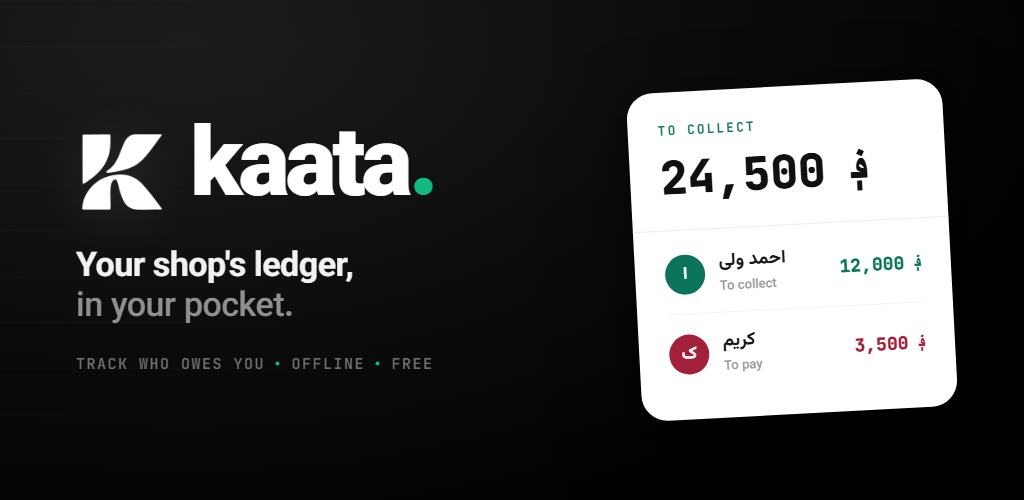
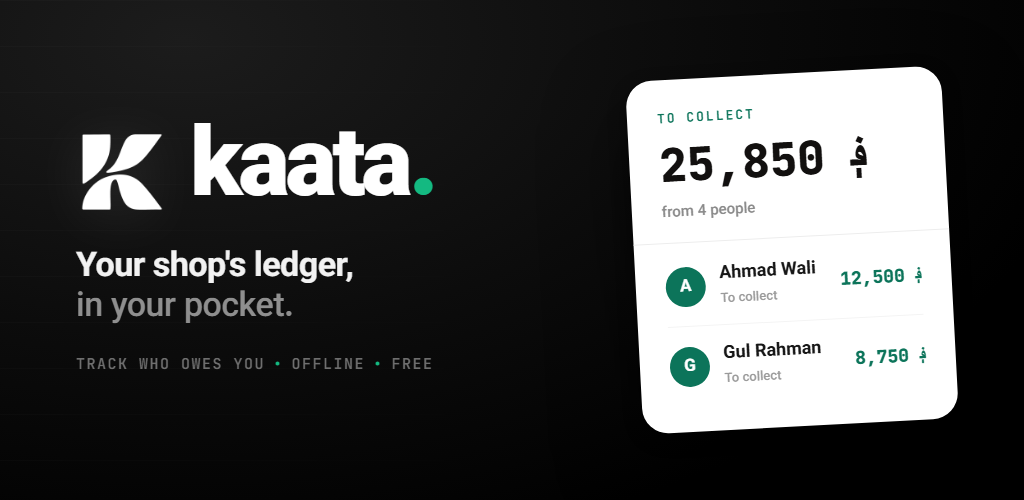
fix(store-assets): correct feature-graphic totals + collect/pay, match profile initials to names

diff --git a/docs/store-assets/feature-graphic.html b/docs/store-assets/feature-graphic.html
@@ -78,7 +78,8 @@
   .card .total { margin-top: 8px; font-family: "Mono", monospace; font-weight: 800;
                  font-size: 46px; color: #12100F; letter-spacing: -1px;
                  direction: ltr; unicode-bidi: isolate; }
-  .card .rule { height: 1px; background: #EDEDED; margin: 22px -30px 4px; }
+  .card .sub { margin-top: 6px; font-weight: 500; font-size: 15px; color: #8a8a8a; }
+  .card .rule { height: 1px; background: #EDEDED; margin: 18px -30px 4px; }
   .row { display: flex; align-items: center; padding: 15px 0; }
   .row + .row { border-top: 1px solid #F4F4F4; }
   .avatar { width: 40px; height: 40px; border-radius: 999px; flex: none;
@@ -108,17 +109,18 @@
 
     <div class="card">
       <div class="lbl">To collect</div>
-      <div class="total">؋ 24,500</div>
+      <div class="total">25,850 ؋</div>
+      <div class="sub">from 4 people</div>
       <div class="rule"></div>
       <div class="row">
-        <div class="avatar a1">ا</div>
-        <div class="who"><div class="nm">احمد ولی</div><div class="st">To collect</div></div>
-        <div class="amt collect">؋ 12,000</div>
+        <div class="avatar a1">A</div>
+        <div class="who"><div class="nm">Ahmad Wali</div><div class="st">To collect</div></div>
+        <div class="amt collect">12,500 ؋</div>
       </div>
       <div class="row">
-        <div class="avatar a2">ک</div>
-        <div class="who"><div class="nm">کریم</div><div class="st">To pay</div></div>
-        <div class="amt pay">؋ 3,500</div>
+        <div class="avatar a1">G</div>
+        <div class="who"><div class="nm">Gul Rahman</div><div class="st">To collect</div></div>
+        <div class="amt collect">8,750 ؋</div>
       </div>
     </div>
   </div>

diff --git a/docs/store-assets/gen-screens.js b/docs/store-assets/gen-screens.js
@@ -57,10 +57,13 @@ function screenHome(opts = {}) {
         rows: [["Ahmad Wali", "2h ago", "12,500"], ["Gul Rahman", "yesterday", "8,750"], ["Fatima Noori", "3d ago", "3,200"], ["Naseer Ahmadzai", "1w ago", "1,400"]] };
   // App is LTR-locked even in Dari (I18nManager.forceRTL(false)) — layout does
   // NOT flip; only the strings change. Keep the English geometry verbatim.
+  // Profile initial matches the visible shop name's first letter: "B" for
+  // "Baradaran Market", "م" for "مارکیت برادران".
+  const chip = rtl ? "م" : "B";
   return `${statusBar()}
   <div class="hdr">
     <div class="hdr-l"><span class="shop">${t.shop}</span><span class="chev">${ic.chevronDown(30)}</span></div>
-    <div class="pchip">م</div>
+    <div class="pchip">${chip}</div>
   </div>
   <div class="tabs"><div class="tab tab-on">${t.collect}</div><div class="tab tab-off">${t.pay}</div></div>
   <div class="total">
@@ -157,7 +160,7 @@ https://kaata.af/v/AbC123`;
     ${statusBar(true)}
     <div class="wa-hdr">
       <span class="wa-back">${ic.chevronBack(34)}</span>
-      <span class="wa-av">ا</span>
+      <span class="wa-av">A</span>
       <span class="wa-who"><span class="wa-name">Ahmad Wali</span><span class="wa-seen">online</span></span>
     </div>
     <div class="wa-body">
